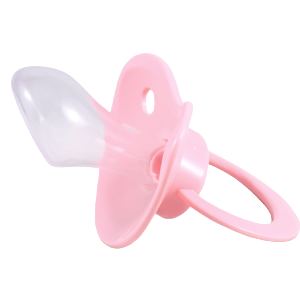
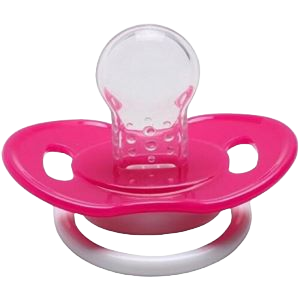
unspecified fixes

diff --git a/curiosityE_start.m b/curiosityE_start.m
@@ -289,6 +289,9 @@ while iTrial < nTrial
         sides(end+1) = 3-sides(end); %#ok<AGROW>
         % /!\ need a loop run var to run through the fam trials
         trialtype        = tableFam.TrialType{iFamRepeatTrial+2};
+        if iFamRepeatTrial <= 2
+            trialtype = [trialtype 'Chance'];   % if we give a second chance or not ---> we may need to specify more cases when to do that
+        end
         tableFam         = selectNextObject(tableFam, "FamEasy");
         idStimInPosition_ = tableFam{tableFam.playing>0,["objL" "objR" "objT"]};
         idStimInPosition_(3) = idStimInPosition_(sides(end));       % to change
@@ -299,8 +302,8 @@ while iTrial < nTrial
         % set the non-biased side match
         isBiased = find(idStimInPosition == idStimInPosition(3),1) == sideBiased;
         if (isBiased && mod(iFamRepeatTrial,2)==1) || (~isBiased && mod(iFamRepeatTrial,2)==0) % we play bias - nonbias - bias - nonbias
-            idStimInPosition(1:2) = idStimInPosition(2:1);
-            idStimInPosition_(1:2) = idStimInPosition_(2:1);
+            idStimInPosition(1:2) = idStimInPosition(2:-1:1);
+            idStimInPosition_(1:2) = idStimInPosition_(2:-1:1);
         end
         sides(end) = find(idStimInPosition(1:end-1) == idStimInPosition(end),1);
     else
@@ -320,7 +323,7 @@ while iTrial < nTrial
         tableTest                  = selectNextObject(tableTest, difficulty);
         idStimInPosition_   = tableTest{tableTest.playing>0, ["objL" "objR" "objT"]}; 
         if sides(end) ~= find(idStimInPosition_(1:end-1) == idStimInPosition_(end),1)
-            idStimInPosition_(1:2) = idStimInPosition_(2:1);
+            idStimInPosition_([1 2]) = idStimInPosition_([2 1]);
         end
         idStimInPosition    = splitapply(@find, idStimInPosition_ == nameObjTest, 1:length(idStimInPosition_));
         trialID             = tableTest.trialID(tableTest.playing>0);
@@ -376,6 +379,10 @@ while iTrial < nTrial
     % set repeat trial flag (push a new trial at the end)
     if any(flagResult == [ (-25:-21) -6 -5 -4 -3  -1 ]) && strcmp(trialtype, 'Test')
         flagRepeat = true;
+    elseif strcmp(trialtype, 'FamFlip')
+        if any(flagResult == [ (-25:-21) 6 ])
+            flagRepeat = true;
+        end
     elseif any(flagResult == [ (-25:-21) -6 -5 -4 -1 6 ]) && ~strcmp(trialtype, 'Test')
         flagRepeat = true;
     end
@@ -391,14 +398,14 @@ while iTrial < nTrial
 
     % repeat trial, test
     if flagRepeat || flagRepeatFam
-        % if strcmp(trialtype, 'Test')
+        if startsWith(trialtype, 'Fam') && flagRepeat
+            iTrial = iTrial - 1;            % repeat fam trials
+            fprintf('repeat fam trial %d again now\n',iTrial)
+        else
             nTrial = nTrial + 1;
             tableTest.playedTimes(tableTest.playing>0) = tableTest.playedTimes(tableTest.playing>0) - 0.5;
             fprintf('trial added, total number of trials %d\n',nTrial)
-        % else
-        %     iTrial = iTrial - 1;            % repeat fam trials
-        %     fprintf('repeat fam trial %d\n',iTrial)
-        % end
+        end
     end
     if flagResult == -1
         xp.eyelink.calibrate;
@@ -454,7 +461,7 @@ else
     xp.trial.varValue.sideChosen  = 'NA';
     flagSideChosen = 'NA';
 end
-xp.eeg.eventSend(xp.trial.varValue)
+xp.eeg.eventSendAll(xp.trial.varValue)
 xp.log.write();
 %fprintf([goodbyeMessage '\n'], flagResult, tTrialEnd)
 xp.erase();

diff --git a/src/ControlClasses/@ExperimentControlClass/stepTrackBottom.m b/src/ControlClasses/@ExperimentControlClass/stepTrackBottom.m
@@ -27,7 +27,9 @@ while true
     [durFixIn, flagFixIn, timeFirstIn] = xp.checkROI(roiFix, timeFix);
     flagResult = xp.checkKeyboard;
     flagResult = xp.checkEndTrial(flagResult,roiFix);
-    flagResult = xp.checkEndStep(flagResult, timeStepStart, durMax);
+    if roiFix <= 0 || roiFix >= nStimOnScreen
+        flagResult = xp.checkEndStep(flagResult, timeStepStart, durMax);
+    end
     if flagResult, return, end
 
 

diff --git a/src/ControlClasses/@ExperimentControlClass/stepTrackTop.m b/src/ControlClasses/@ExperimentControlClass/stepTrackTop.m
@@ -22,7 +22,9 @@ while true
     [durFixIn, flagFixIn, timeFirstIn] = xp.checkROI(roiFix, timeFix);
     flagResult = xp.checkKeyboard;
     flagResult = xp.checkEndTrial(flagResult, roiFix);
-    flagResult = xp.checkEndStep(flagResult, timeStepStart, durMax);
+    if roiFix ~= nStimOnScreen
+        flagResult = xp.checkEndStep(flagResult, timeStepStart, durMax);
+    end
     if flagResult, return, end
 
 
